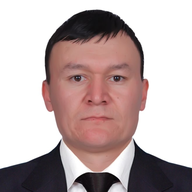
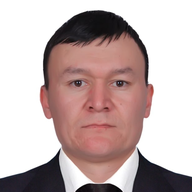
Add files via upload

diff --git a/sw.js b/sw.js
@@ -1,5 +1,5 @@
 /* Oflayn ishlash uchun xizmat ishchisi. Fayllarni yangilaganingizda VERSION raqamini oshiring. */
-var VERSION='beruniy-v99';
+var VERSION='beruniy-v100';
 var CORE=['./','index.html','stil.css','suhbat.js','baza.js','manifest.webmanifest','rasmlar/icon-192.png','rasmlar/icon-512.png','rasmlar/fon.webp',
  'test.html','test-6.html','test-7.html','test-8.html','test-9.html','test-10.html','test-11.html','huquq-test.html','sertifikat.html','sertifikat-2.html','sertifikat-3.html','sertifikat-4.html','sertifikat-5.html','sertifikat-6.html','sertifikat-xiva.html','sertifikat-qoqon.html','sertifikat-buxoro.html','sertifikat-afrika.html','sert-kartasi.js','kirish.js','attestatsiya-qulf.js','xlsx.mini.min.js','fanlar.html','istoriya.html','istoriya-6.html','istoriya-7.html','istoriya-7-2.html','istoriya-7-uz.html','slaydlar.html','videolar.html','oyinlar.html','zakovat.html','zk-savoljavob.html','zk-svoyak.html','zk-breynring.html','zk-erudit.html','zk-darslik.html','zk-darslik-adabiyot.html','zk-darslik-biologiya.html','zk-darslik-fizika.html','zk-darslik-geografiya.html','zk-darslik-huquq.html','zk-darslik-informatika.html','zk-darslik-ingliz-tili.html','zk-darslik-kimyo.html','zk-darslik-astronomiya.html','zk-darslik-chqbt.html','zk-darslik-matematika.html','zk-darslik-ona-tili.html','zk-darslik-tarix.html',
  'olimpiada.html','attestatsiya.html','milliy-sertifikat.html','pedagogik-mahorat.html','akademiya.html','huquq.html','tarbiya.html','tarix-suhbat.html','biletlar.html','bilet-chop.html','kartochkalar.html','qidiruv.html','qollanmalar.html','xronologiya.html','xarita-afrika.html','xarita-somoniylar.html','kartochkalar-somoniylar.html','ochiq-darslar.html'];
